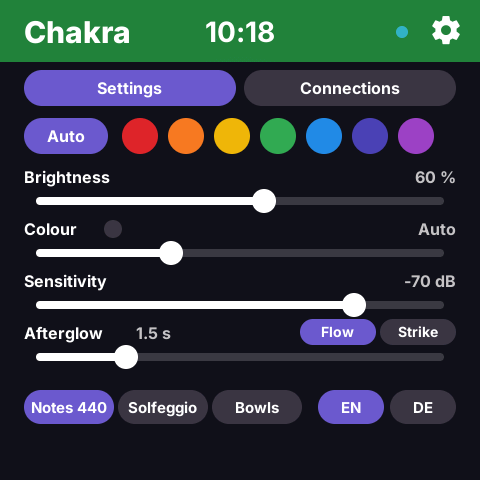
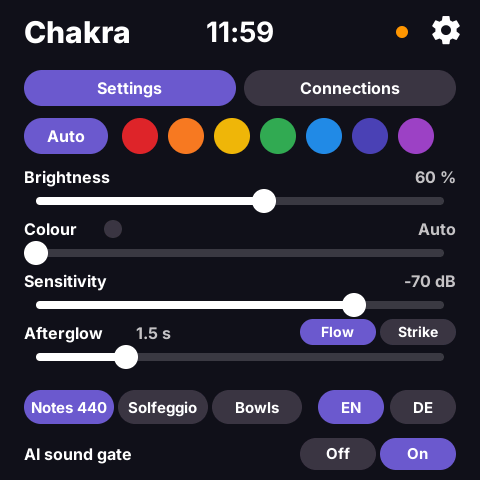
README: which one (Chakra or ChakraV), the AI sound gate with first results; neutral sample address

diff --git a/components/app_chakra/ui/make_scene.py b/components/app_chakra/ui/make_scene.py
@@ -225,7 +225,7 @@ def scene():
     add("container", None, "grp_url", x=0, y=0, w=432, h=120, radius=18, bg_color=TILE)
     icon("grp_url", 16, 16, 28, MONITOR)
     text("lbl_url", "grp_url", 56, 19, 360, 24, 16, BOLD, "#FFFFFFC0", sample="Screen lamp", overflow="ellipsis")
-    text("lamp_url", "grp_url", 16, 56, 400, 48, 36, XBOLD, WHITE, align="center", sample="192.168.178.123:3310",
+    text("lamp_url", "grp_url", 16, 56, 400, 48, 36, XBOLD, WHITE, align="center", sample="192.168.1.20:3310",
          overflow="ellipsis")
 
     # Hold to close, as in Muse: the bar fills orange from the left over 3 s.

diff --git a/README.md b/README.md
@@ -8,6 +8,14 @@ symbol, note and frequency, and colours the room: the screen itself turns the ch
 follow (Philips Hue, Home Assistant, WiZ, or any TV or laptop browser as a screen lamp). Made for sound healing journeys: put it in the middle of the room
 and play.
 
+**Which one?** There are two apps, from the same code:
+
+| | [Chakra Detection](https://github.com/leopardcodeai/chakra-detection) (this one) | [ChakraV](https://github.com/leopardcodeai/chakrav) |
+|---|---|---|
+| Listens | microphone | microphone and camera |
+| AI | optional sound gate, on the device | as much on the device as the ESP32-S31 runs, plus optional cloud models with your own API key |
+| For | rooms where a camera is not wanted: the classic, private choice | experiments: what can it see and mark? |
+
 <p align="center"><img src="docs/demo.gif" width="360" alt="The app hearing seven bowls, root to crown: the screen turns red, orange, yellow, green, blue, indigo and violet"></p>
 
 | Ready | A bowl sounds | Crown | Settings | Connections |
@@ -29,6 +37,14 @@ and play.
   `http://<its address>/lamp`.
 - **Your colour, if you like.** Under **Settings**, Colour: Auto (default) follows the chakra; a tap on one
   of the seven colours, or the Colour slider for any hue, gives a steady light that the tones do not change.
+- **AI sound gate (optional).** Under Settings, "AI sound gate" On: only bowl-like sounds change the colour,
+  fades get softer, and a gong or a drum strike gives the light a short brightness kick instead of a wrong
+  colour. On the Mac it runs EfficientAT (mn05) with a small head trained on freely licensed recordings
+  (`tools/ai_gate.py`, `chakra_feed.py mic --ai`); on the board it is meant for the ESP32-S31's AI
+  instructions through ESP-DL (mn05 at 8-bit weights and 16-bit activations, about 1.9 MB, estimated 30 to
+  60 ms per second of audio, to be measured when the board is here). First results on 33 recordings:
+  without the gate gongs coloured the room 88 % of the time they sounded, with it 18 %, while bowls kept
+  their colour 86 % of the time (90 % without). Drums, rattles and rain sticks never coloured it either way.
 - **Flow or Strike.** Flow (default) waits 0.4 s for a steady tone and fades softly, made for a journey.
   Strike reacts in 0.13 s to every strike.
 - **Three ways to map a tone to a chakra.** Notes (C root to B crown, A = 440 Hz or 432 Hz), Solfeggio
